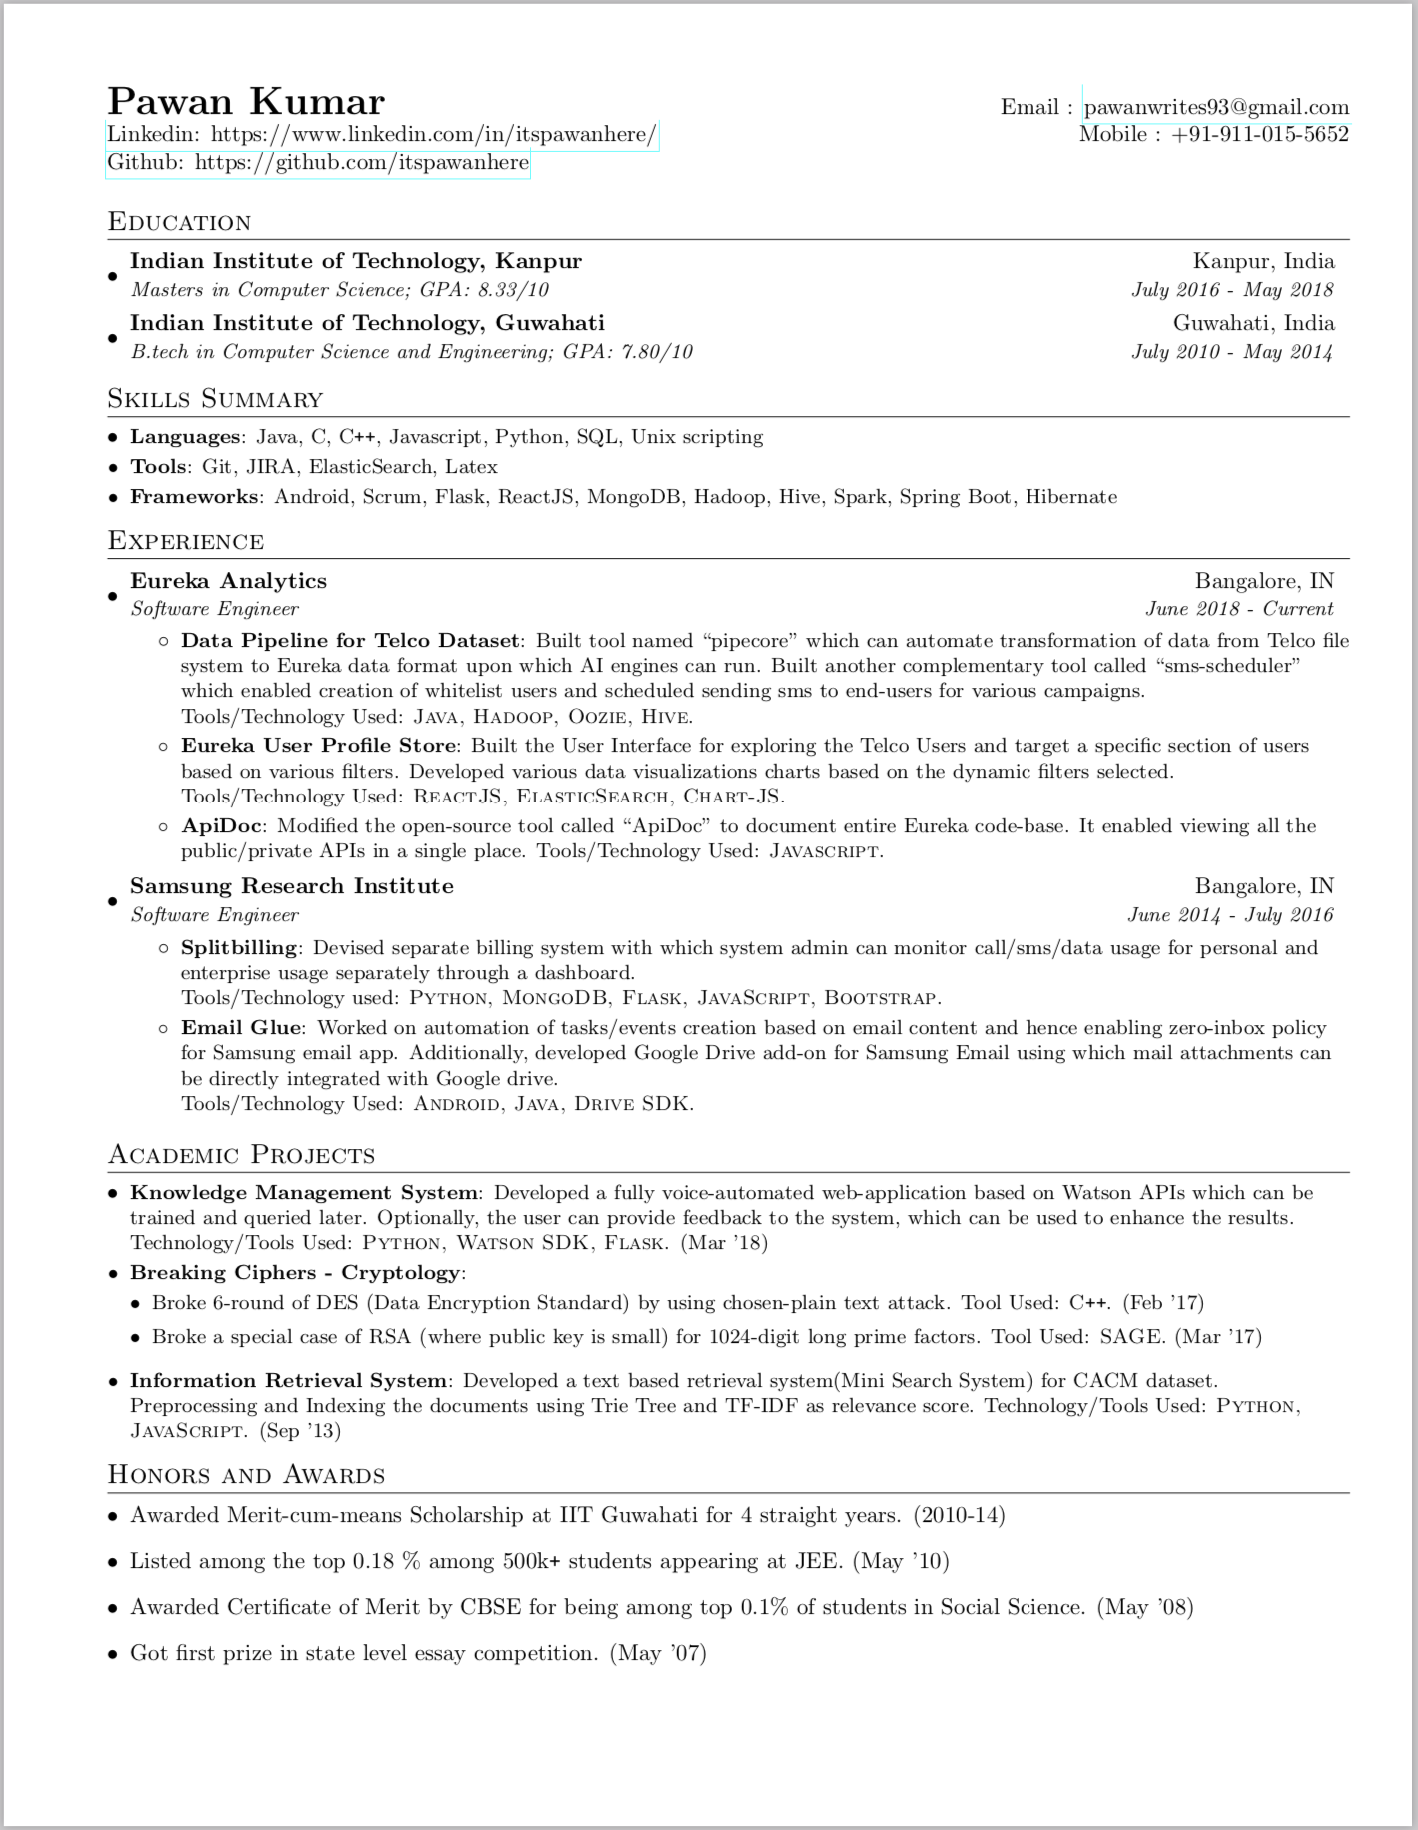
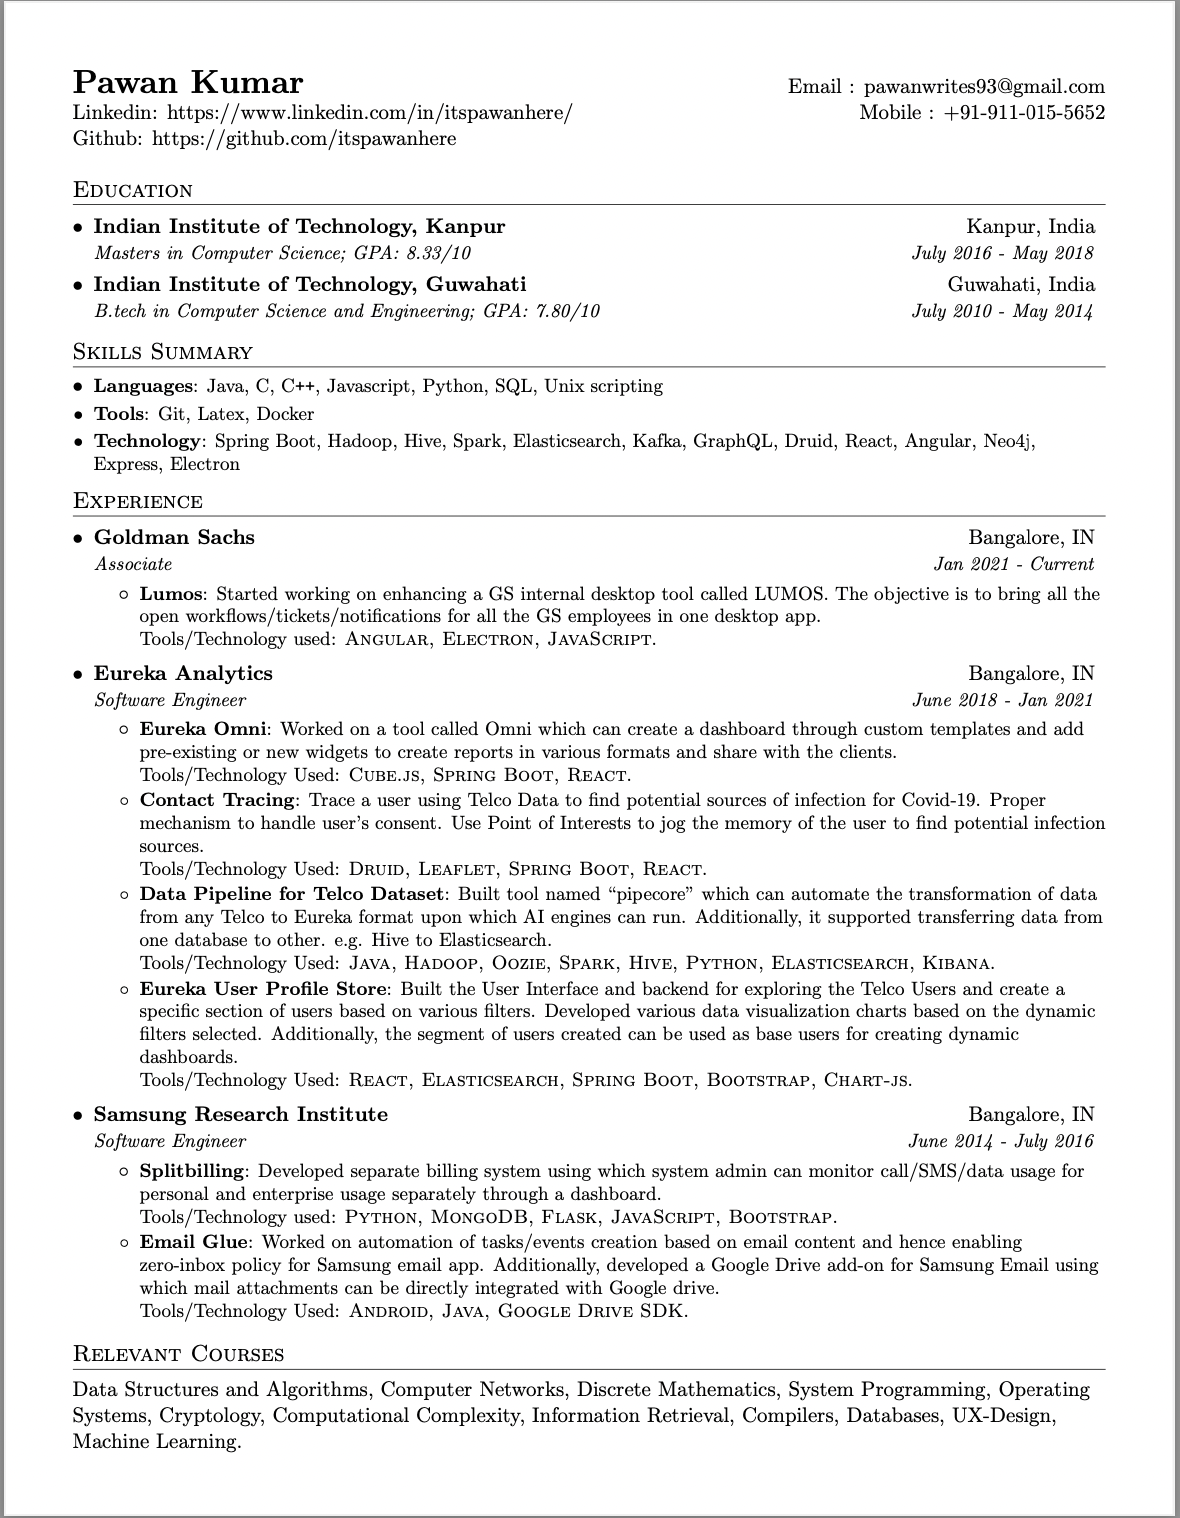
Updated the files and added Dockerfile for build

diff --git a/pawan-resume.tex b/pawan-resume.tex
@@ -1,0 +1,190 @@
+%-------------------------
+% Resume in Latex
+% Author : Pawan Kumar
+% License : MIT
+%------------------------
+
+\documentclass[letterpaper,11pt]{article}
+
+\usepackage{latexsym}
+\usepackage[empty]{fullpage}
+\usepackage{titlesec}
+\usepackage{marvosym}
+\usepackage[usenames,dvipsnames]{color}
+\usepackage{verbatim}
+\usepackage{enumitem}
+\usepackage[hidelinks]{hyperref}
+\usepackage{fancyhdr}
+\usepackage[english]{babel}
+\usepackage{tabularx}
+\input{glyphtounicode}
+
+\pagestyle{fancy}
+\fancyhf{} % clear all header and footer fields
+\fancyfoot{}
+\renewcommand{\headrulewidth}{0pt}
+\renewcommand{\footrulewidth}{0pt}
+
+% Adjust margins
+\addtolength{\oddsidemargin}{-0.5in}
+\addtolength{\evensidemargin}{-0.5in}
+\addtolength{\textwidth}{1in}
+\addtolength{\topmargin}{-.5in}
+\addtolength{\textheight}{1.0in}
+
+\urlstyle{same}
+
+\raggedbottom
+\raggedright
+\setlength{\tabcolsep}{0in}
+
+% Sections formatting
+\titleformat{\section}{
+  \vspace{-4pt}\scshape\raggedright\large
+}{}{0em}{}[\color{black}\titlerule \vspace{-5pt}]
+
+% Ensure that generate pdf is machine readable/ATS parsable
+\pdfgentounicode=1
+
+%-------------------------
+% Custom commands
+\newcommand{\resumeItem}[2]{
+  \item\small{
+    \textbf{#1}{: #2 \vspace{-2pt}}
+  }
+}
+
+% Just in case someone needs a heading that does not need to be in a list
+\newcommand{\resumeHeading}[4]{
+    \begin{tabular*}{0.99\textwidth}[t]{l@{\extracolsep{\fill}}r}
+      \textbf{#1} & #2 \\
+      \textit{\small#3} & \textit{\small #4} \\
+    \end{tabular*}\vspace{-5pt}
+}
+
+\newcommand{\resumeSubheading}[4]{
+  \vspace{-1pt}\item
+    \begin{tabular*}{0.97\textwidth}[t]{l@{\extracolsep{\fill}}r}
+      \textbf{#1} & #2 \\
+      \textit{\small#3} & \textit{\small #4} \\
+    \end{tabular*}\vspace{-5pt}
+}
+
+\newcommand{\resumeSubSubheading}[2]{
+    \begin{tabular*}{0.97\textwidth}{l@{\extracolsep{\fill}}r}
+      \textit{\small#1} & \textit{\small #2} \\
+    \end{tabular*}\vspace{-5pt}
+}
+
+\newcommand{\resumeSubItem}[2]{\resumeItem{#1}{#2}\vspace{-4pt}}
+
+\renewcommand{\labelitemii}{$\circ$}
+
+\newcommand{\resumeSubHeadingListStart}{\begin{itemize}[leftmargin=*]}
+\newcommand{\resumeSubHeadingListEnd}{\end{itemize}}
+\newcommand{\resumeItemListStart}{\begin{itemize}}
+\newcommand{\resumeItemListEnd}{\end{itemize}\vspace{-5pt}}
+
+%-------------------------------------------
+%%%%%%  CV STARTS HERE  %%%%%%%%%%%%%%%%%%%%%%%%%%%%
+
+
+\begin{document}
+
+%----------HEADING-----------------
+\begin{tabular*}{\textwidth}{l@{\extracolsep{\fill}}r}
+  \textbf{{\LARGE Pawan Kumar}} & Email : \href{mailto:pawanwrites93@gmail.com}{pawanwrites93@gmail.com}\\
+  \href{https://www.linkedin.com/in/itspawanhere/}{Linkedin: https://www.linkedin.com/in/itspawanhere/} & Mobile : +91-911-015-5652 \\
+  \href{https://github.com/itspawanhere}{Github: https://github.com/itspawanhere} \\
+\end{tabular*}
+
+%-----------EDUCATION-----------------
+\section{Education}
+  \resumeSubHeadingListStart
+    \resumeSubheading
+      {Indian Institute of Technology, Kanpur}{Kanpur, India}
+      {Masters in Computer Science;  GPA: 8.33/10}{July 2016 - May 2018}
+
+    \resumeSubheading
+      {Indian Institute of Technology, Guwahati}{Guwahati, India}
+      {B.tech in Computer Science and Engineering;  GPA: 7.80/10}{July 2010 - May 2014}
+  \resumeSubHeadingListEnd
+%
+%--------PROGRAMMING SKILLS------------
+\section{Skills Summary}
+	\resumeSubHeadingListStart
+	\resumeSubItem{Languages}{Java, C, C\texttt{++}, Javascript, Python, SQL, Unix scripting}
+	\resumeSubItem{Tools}{Git, Latex, Docker}
+	\resumeSubItem{Technology}{Spring Boot, Hadoop, Hive, Spark, Elasticsearch, Kafka, GraphQL, Druid, React, Angular, Neo4j, Express, Electron}
+\resumeSubHeadingListEnd
+
+%-----------EXPERIENCE-----------------
+\section{Experience}
+  \resumeSubHeadingListStart
+
+  \resumeSubheading
+	{Goldman Sachs}{Bangalore, IN}
+	{Associate}{Jan 2021 -  Current}
+	\resumeItemListStart
+    \resumeItem{Lumos}
+      {Started working on enhancing a GS internal desktop tool called LUMOS. The objective is to bring all the open workflows/tickets/notifications for all the GS employees in one desktop app. \\ Tools/Technology used: \textsc{Angular, Electron, JavaScript}.}
+	\resumeItemListEnd
+
+    \resumeSubheading
+    {Eureka Analytics}{Bangalore, IN}
+    {Software Engineer}{June 2018 -  Jan 2021}
+    \resumeItemListStart
+        \resumeItem{Eureka Omni}{Worked on a tool called Omni which can create a dashboard through custom templates and add pre-existing or new widgets to create reports in various formats and share with the clients.  \\ Tools/Technology Used: \textsc{Cube.js, Spring Boot, React}.}
+        \resumeItem{Contact Tracing}{Trace a user using Telco Data to find potential sources of infection for Covid-19. Proper mechanism to handle user's consent. Use Point of Interests to jog the memory of the user to find potential infection sources. \\ Tools/Technology Used: \textsc{Druid, Leaflet, Spring Boot, React}.}
+        % \resumeItem{Credit Score}{Built an end-to-end system that can ingest credit score data from Eureka AI engine in Hive to Elasticsearch and clients can use mobile number or national ID to fetch the credit score of the user(s). \\ Tools/Technology Used: \textsc{Elasticsearch, Spring Boot, Bootstrap, React}.}
+        \resumeItem{Data Pipeline for Telco Dataset}
+          {Built tool named ``pipecore'' which can automate the transformation of data from any Telco to Eureka format upon which AI engines can run. Additionally, it supported transferring data from one database to other.  e.g. Hive to Elasticsearch. \\ Tools/Technology Used: \textsc{Java, Hadoop, Oozie, Spark, Hive, Python, Elasticsearch, Kibana}.}
+        % \resumeItem{Campaign Management System}
+        %   {Developed a system using which a Campaign Director can create and manage campaigns for any set of target customers. The major challenge involved matchmaking of best users to each campaign during simultaneous runs. \\ Tools/Technology Used: \textsc{Spring Boot, MySQL, React}.}
+          \resumeItem{Eureka User Profile Store}
+          {Built the User Interface and backend for exploring the Telco Users and create a specific section of users based on various filters. Developed various data visualization charts based on the dynamic filters selected.  Additionally, the segment of users created can be used as base users for creating dynamic dashboards. \\ Tools/Technology Used: \textsc{React, Elasticsearch, Spring Boot, Bootstrap, Chart-js}.}
+      \resumeItemListEnd
+
+    \resumeSubheading
+		{Samsung Research Institute}{Bangalore, IN}
+		{Software Engineer}{June 2014 -  July 2016}
+		\resumeItemListStart
+        \resumeItem{Splitbilling}
+          {Developed separate billing system using which system admin can monitor call/SMS/data usage for personal and enterprise usage separately through a dashboard. \\ Tools/Technology used: \textsc{Python, MongoDB, Flask, JavaScript, Bootstrap}.}
+        \resumeItem{Email Glue}
+          {Worked on automation of tasks/events creation based on email content and hence enabling zero-inbox policy for Samsung email app. Additionally, developed a Google Drive add-on for Samsung Email using which mail attachments can be directly integrated with Google drive. \\ Tools/Technology Used: \textsc{Android, Java, Google Drive SDK}.}
+		\resumeItemListEnd
+\resumeSubHeadingListEnd
+
+%-----------PROJECTS-----------------
+% \section{Academic Projects}
+% \resumeSubHeadingListStart
+% \resumeSubItem{Knowledge Management System}{Developed a fully voice-automated web-application based on Watson APIs which can be trained and queried later. Optionally, the user can provide feedback to the system, which can be used to enhance the results. Technology/Tools Used: \textsc{Python, Watson SDK, Flask}. (Mar '18)}
+% \resumeSubItem{IIT Kanpur CSE Lab Management}{}
+% \begin{description}[font=$\bullet$]
+%     \item {Created Moodle course management system for CSE department, IIT Kanpur. Tool Used: \textsc{Moodle/PHP}. (Sep '16)}
+%     \item {Created and setup the LDAP authentication for CSE department users. Tool Used: \textsc{LDAP/PHP}. (Mar '17)}
+%     \end{description}
+% \resumeSubItem{Breaking Ciphers - Cryptology}{}
+% \begin{description}[font=$\bullet$]
+%     \item {Broke 6-round of DES (Data Encryption Standard) by using chosen-plain text attack. Tool Used: C\texttt{++}. (Feb '17)}
+%     \item {Broke a special case of RSA (where public key is small) for 1024-digit long prime factors. Tool Used: \textsc{SAGE}. (Mar '17)}
+%     \end{description}
+% \resumeSubItem{Information Retrieval System}{Developed a text based retrieval system(Mini Search System) for CACM dataset. Preprocessing and Indexing the documents using Trie Tree and TF-IDF as relevance score. Technology/Tools Used: \textsc{Python, JavaScript}. (Sep '13)}
+% \resumeSubHeadingListEnd
+
+%-----------Awards-----------------
+% \section{Honors and Awards}
+% \begin{description}[font=$\bullet$]
+% \item {Awarded Merit-cum-means Scholarship at IIT Guwahati for 4 straight years. (2010 - 14)}
+% \item {Listed among the top 0.18 \% among 500K\texttt{+} students appearing at JEE. (May '10)}
+% \item {Awarded Certificate of Merit by CBSE for being among top 0.1\% of students in Social Science. (May '08)}
+% \item {Got first prize in state level essay competition. (May '07)}
+% \end{description}
+%-------------------------------------------
+
+%-----------Courses-----------------
+\section{Relevant Courses}
+Data Structures and Algorithms, Computer Networks, Discrete Mathematics, System Programming, Operating Systems, Cryptology, Computational Complexity, Information Retrieval, Compilers, Databases, UX-Design, Machine Learning.
+%-------------------------------------------
+\end{document}

diff --git a/README.md b/README.md
@@ -1,8 +1,20 @@
 A single-page, one-column resume for software developers. It uses the base latex templates and fonts to provide ease of use and installation when trying to update the resume. The different sections are clearly documented and custom commands are used to provide consistent formatting. The three main sections in the resume are education, experience, and projects.
 
+### Motivation
+
+I created this template as managing a resume on Google Docs was hard and changing any formatting was too difficult since it had to be applied in multiple places. Most currently available templates either focus on two columns, or are multiple pages long. I personally found the two-column templates hard to focus while multiple-page resumes were just too long to be used in career fairs.
+
+### Build using Docker
+
+```sh
+docker build -t latex .
+docker run --rm -i -v "$PWD":/data latex pdflatex pawan-resume.tex
+```
 
 ### Preview
+
 ![Resume Screenshot](/resume_preview.png)
 
 ### License
-Format is MIT but all the data is owned by Pawan Kumar.
+
+Format is MIT but all the data is owned by pawan kumar.
